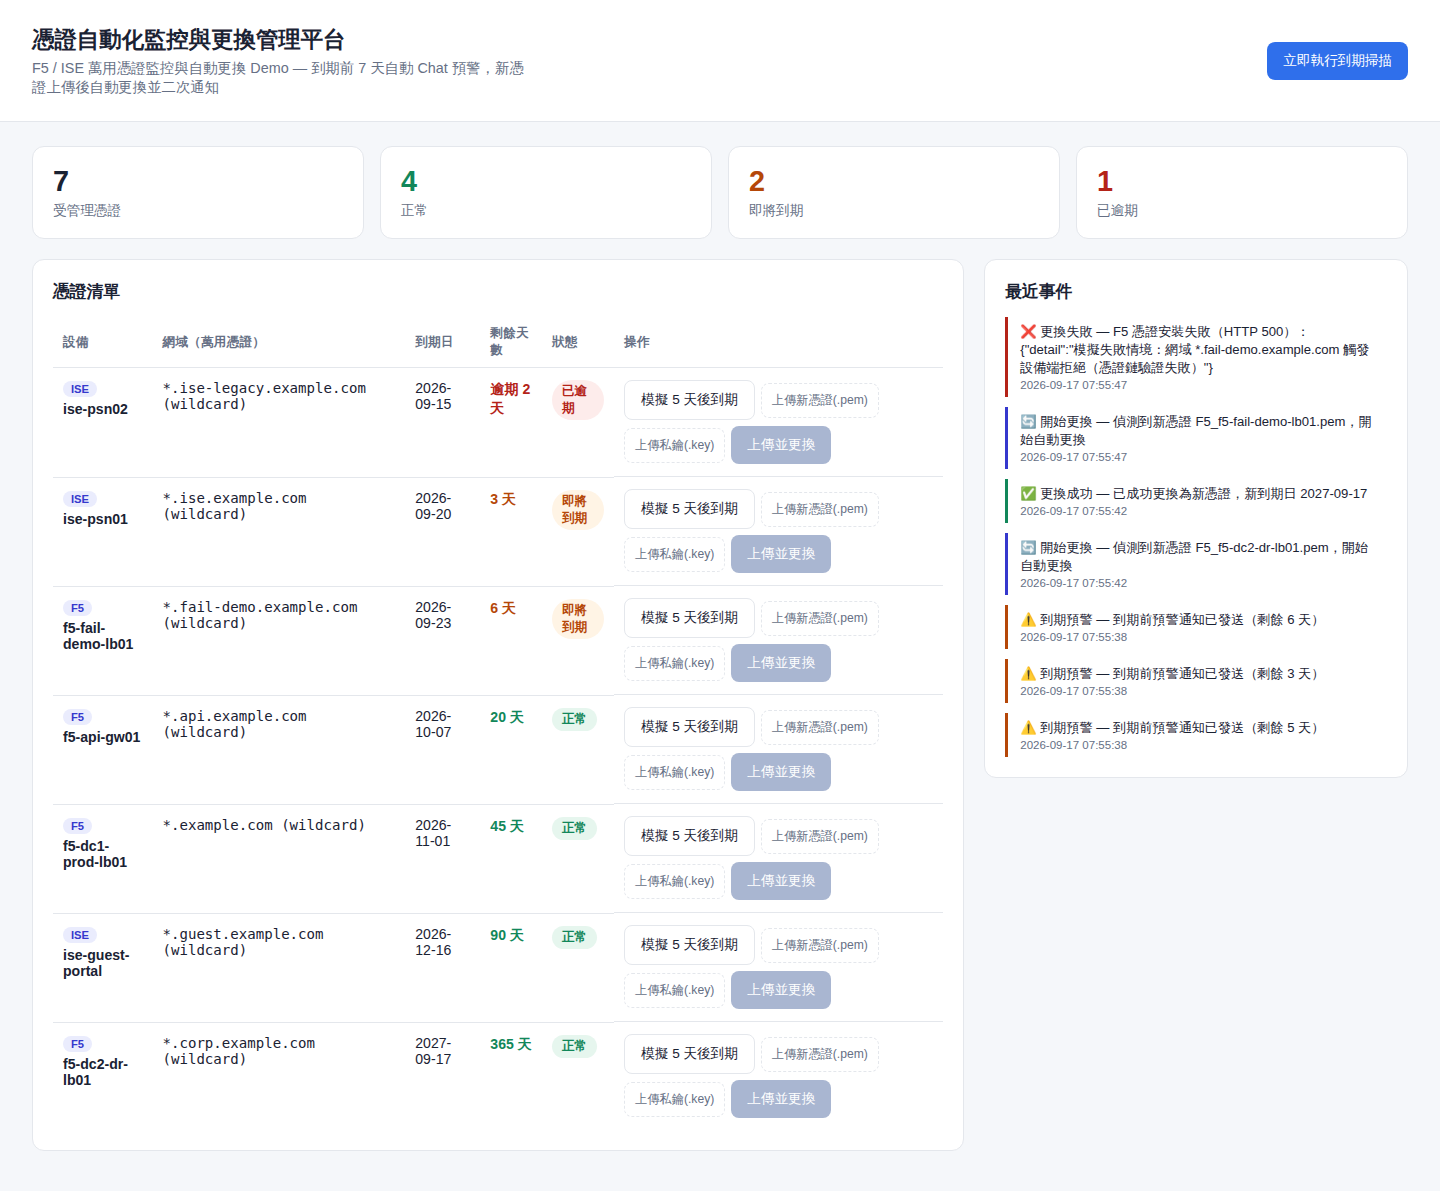
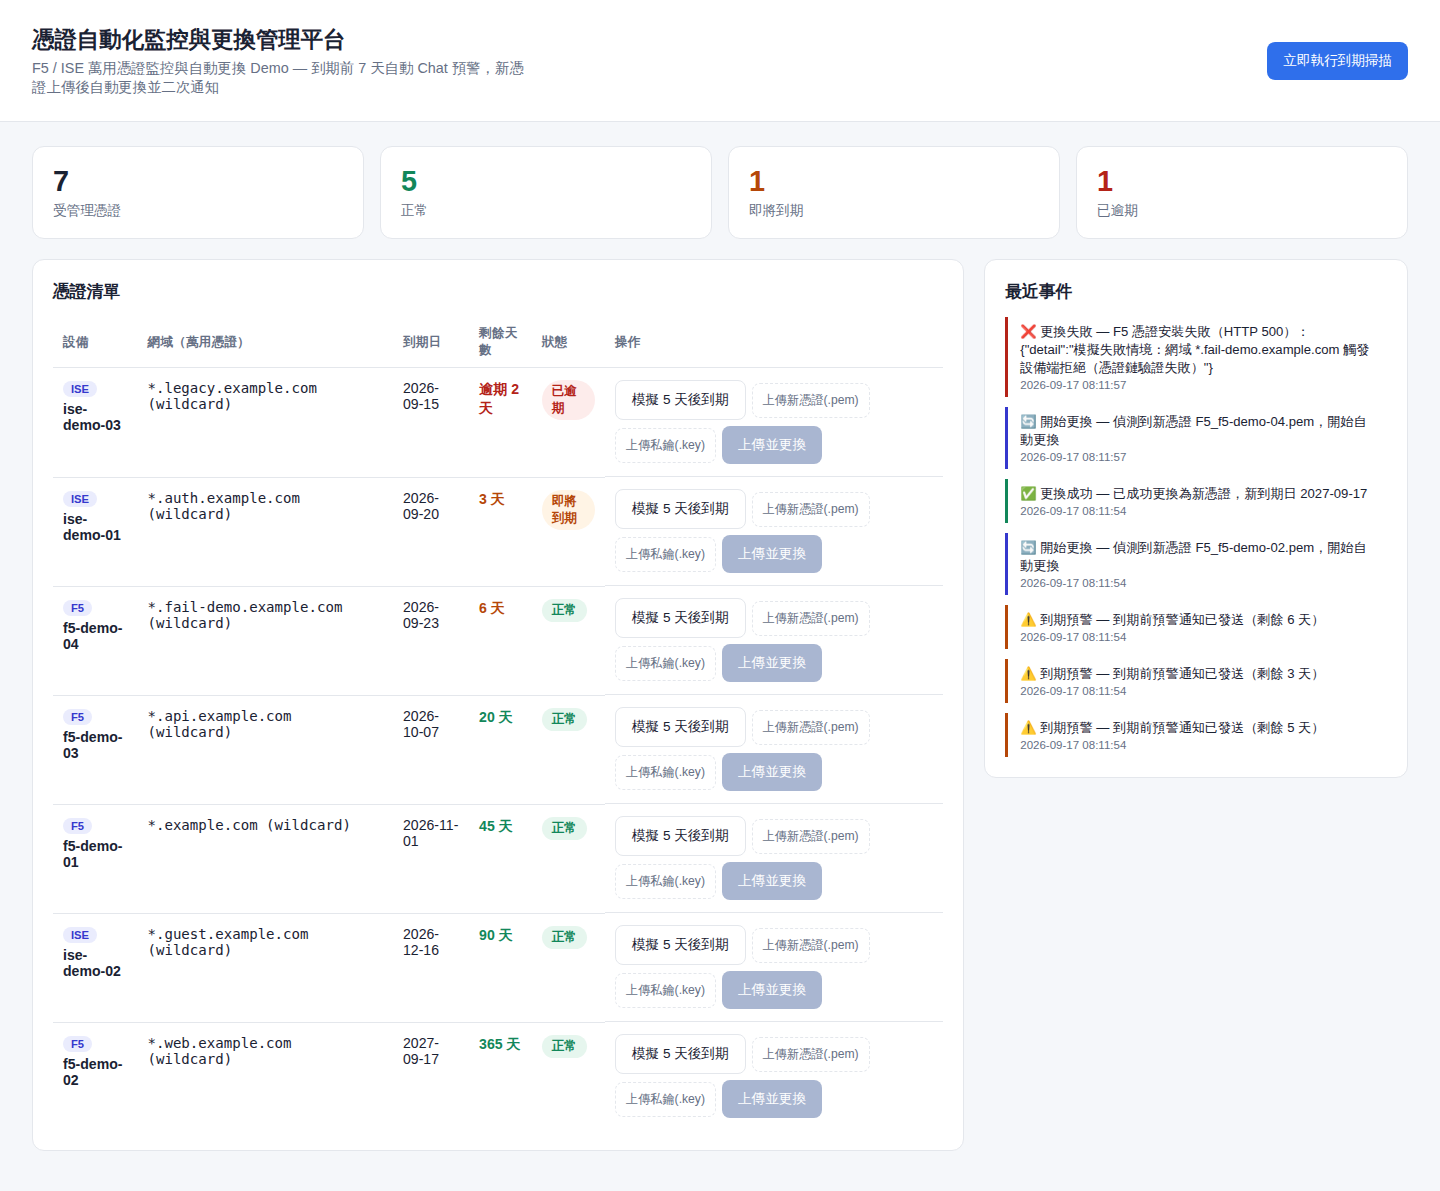
Use neutral demo naming and fill in GitHub username
Renamed demo device/domain examples (f5-dc1-prod-lb01, *.corp.example.com,
etc.) to clearly generic placeholders (f5-demo-01, *.web.example.com) so
nothing in the repo reads like a real environment's naming convention.
Also filled in the GitHub username in README links/badges and refreshed
the dashboard screenshot to match.

Claude-Session: https://claude.ai/code/session_01PJ8L9w5UkjH1amPFNGcDDn

diff --git a/scripts/seed_demo.py b/scripts/seed_demo.py
@@ -20,15 +20,15 @@ from app.models import Certificate  # noqa: E402
 from app.scheduler import scan_for_expiring_certificates  # noqa: E402
 
 DEMO_CERTS = [
-    dict(device_type="F5", device_name="f5-dc1-prod-lb01", domain="*.example.com", days_left=45),
-    dict(device_type="F5", device_name="f5-dc2-dr-lb01", domain="*.corp.example.com", days_left=5),
-    dict(device_type="F5", device_name="f5-api-gw01", domain="*.api.example.com", days_left=20),
-    dict(device_type="ISE", device_name="ise-psn01", domain="*.ise.example.com", days_left=3),
-    dict(device_type="ISE", device_name="ise-guest-portal", domain="*.guest.example.com", days_left=90),
-    dict(device_type="ISE", device_name="ise-psn02", domain="*.ise-legacy.example.com", days_left=-2),
+    dict(device_type="F5", device_name="f5-demo-01", domain="*.example.com", days_left=45),
+    dict(device_type="F5", device_name="f5-demo-02", domain="*.web.example.com", days_left=5),
+    dict(device_type="F5", device_name="f5-demo-03", domain="*.api.example.com", days_left=20),
+    dict(device_type="ISE", device_name="ise-demo-01", domain="*.auth.example.com", days_left=3),
+    dict(device_type="ISE", device_name="ise-demo-02", domain="*.guest.example.com", days_left=90),
+    dict(device_type="ISE", device_name="ise-demo-03", domain="*.legacy.example.com", days_left=-2),
     # domain deliberately contains "fail-demo": mock_devices/common.py rejects any install
     # for such a domain, so this row is handy for demoing the failure / rollback path live.
-    dict(device_type="F5", device_name="f5-fail-demo-lb01", domain="*.fail-demo.example.com", days_left=6),
+    dict(device_type="F5", device_name="f5-demo-04", domain="*.fail-demo.example.com", days_left=6),
 ]
 
 

diff --git a/scripts/generate_sample_cert.py b/scripts/generate_sample_cert.py
@@ -10,11 +10,11 @@ Examples
 --------
 Renew one of the seeded demo certs (see scripts/seed_demo.py for the list):
 
-    python scripts/generate_sample_cert.py --device-type F5 --device-name f5-dc2-dr-lb01 --domain "*.corp.example.com"
+    python scripts/generate_sample_cert.py --device-type F5 --device-name f5-demo-02 --domain "*.web.example.com"
 
 Demonstrate the failure path (mock device always rejects "fail-demo" domains):
 
-    python scripts/generate_sample_cert.py --device-type F5 --device-name f5-fail-demo-lb01 --domain "*.fail-demo.example.com"
+    python scripts/generate_sample_cert.py --device-type F5 --device-name f5-demo-04 --domain "*.fail-demo.example.com"
 """
 import argparse
 import sys
@@ -29,7 +29,7 @@ from app.config import settings  # noqa: E402
 def main():
     parser = argparse.ArgumentParser(description=__doc__, formatter_class=argparse.RawDescriptionHelpFormatter)
     parser.add_argument("--device-type", required=True, choices=["F5", "ISE"])
-    parser.add_argument("--device-name", required=True, help="e.g. f5-dc1-prod-lb01")
+    parser.add_argument("--device-name", required=True, help="e.g. f5-demo-01")
     parser.add_argument("--domain", required=True, help='e.g. "*.example.com" (must match an existing record)')
     parser.add_argument("--valid-days", type=int, default=365)
     args = parser.parse_args()

diff --git a/app/models.py b/app/models.py
@@ -13,7 +13,7 @@ class Certificate(Base):
 
     id = Column(Integer, primary_key=True, index=True)
     device_type = Column(String, nullable=False)       # "F5" | "ISE"
-    device_name = Column(String, nullable=False)        # e.g. "f5-dc1-prod-lb01"
+    device_name = Column(String, nullable=False)        # e.g. "f5-demo-01"
     domain = Column(String, nullable=False)              # e.g. "*.example.com"
     cert_type = Column(String, default="wildcard")
     serial_number = Column(String, default="")

diff --git a/app/watcher.py b/app/watcher.py
@@ -5,8 +5,8 @@ Naming convention for a dropped-in certificate (kept deliberately simple for
 the demo): `<DeviceType>_<DeviceName>.pem` with a matching `.key` file of the
 same stem, e.g.
 
-    F5_f5-dc1-prod-lb01.pem
-    F5_f5-dc1-prod-lb01.key
+    F5_f5-demo-01.pem
+    F5_f5-demo-01.key
 
 process_certificate_file() is the single entry point used both by the
 filesystem watcher (watchdog, for the "drop a file with scp/sftp" workflow)

diff --git a/app/cert_utils.py b/app/cert_utils.py
@@ -32,7 +32,7 @@ def generate_self_signed_wildcard(domain: str, valid_days: int = 365) -> tuple[b
 
     subject = issuer = x509.Name([
         x509.NameAttribute(NameOID.COUNTRY_NAME, "TW"),
-        x509.NameAttribute(NameOID.ORGANIZATION_NAME, "Demo Corp"),
+        x509.NameAttribute(NameOID.ORGANIZATION_NAME, "Demo Org"),
         x509.NameAttribute(NameOID.COMMON_NAME, domain),
     ])
 

diff --git a/tests/test_notifier.py b/tests/test_notifier.py
@@ -7,7 +7,7 @@ from app import notifier
 def _fake_cert(**overrides):
     base = dict(
         device_type="F5",
-        device_name="f5-dc1-prod-lb01",
+        device_name="f5-demo-01",
         domain="*.example.com",
         cert_type="wildcard",
         expires_at=dt.datetime.utcnow() + dt.timedelta(days=5),

diff --git a/README.md b/README.md
@@ -2,11 +2,9 @@
 
 **Certificate Lifecycle Automation for F5 / Cisco ISE Wildcard Certificates** — a self-contained demo (mock device APIs included) of an end-to-end pipeline: expiry monitoring → D-7 chat alert → admin drops in the renewed cert → API auto-install → completion alert.
 
-![CI](https://github.com/<your-github-username>/cert-lifecycle-manager/actions/workflows/ci.yml/badge.svg)
+![CI](https://github.com/s9828027-hue/cert-lifecycle-manager/actions/workflows/ci.yml/badge.svg)
 ![Python](https://img.shields.io/badge/python-3.12-blue)
 ![FastAPI](https://img.shields.io/badge/FastAPI-0.141-009688)
-
-> 把 README 頂端的 `<your-github-username>` 換成你的 GitHub 帳號，CI 徽章才會正確連結。
 
 ---
 
@@ -77,7 +75,7 @@ flowchart LR
 
 ![Dashboard](docs/screenshots/dashboard.png)
 
-儀表板同時展示了：4 種狀態的憑證、一次成功更換（`f5-dc2-dr-lb01`）與一次刻意觸發的失敗案例（`f5-fail-demo-lb01`，用來示範失敗告警與稽核紀錄）。
+儀表板同時展示了：4 種狀態的憑證、一次成功更換（`f5-demo-02`）與一次刻意觸發的失敗案例（`f5-demo-04`，用來示範失敗告警與稽核紀錄）。
 
 ---
 
@@ -102,7 +100,7 @@ flowchart LR
 ### 方法一：Docker Compose（推薦）
 
 ```bash
-git clone https://github.com/<your-github-username>/cert-lifecycle-manager.git
+git clone https://github.com/s9828027-hue/cert-lifecycle-manager.git
 cd cert-lifecycle-manager
 cp .env.example .env        # 預設 CHAT_PROVIDER=console，不需 webhook 也能跑
 docker compose up --build
@@ -157,13 +155,13 @@ Slack / Discord 都可以免費申請一組 Incoming Webhook URL 做測試。
 2. 點任一筆憑證的「立即執行到期掃描」或等排程自動跑，觀察右側事件流出現「⚠ 到期預警」，並在服務 log（或 Slack/Discord）看到通知內容
 3. 模擬管理者拿到新憑證並更換：
    ```bash
-   python scripts/generate_sample_cert.py --device-type F5 --device-name f5-dc2-dr-lb01 --domain "*.corp.example.com"
+   python scripts/generate_sample_cert.py --device-type F5 --device-name f5-demo-02 --domain "*.web.example.com"
    ```
    幾秒內儀表板該列狀態會變成「正常」、到期日更新、事件流出現「✅ 更換成功」
 4. 或直接在儀表板該列用「上傳新憑證(.pem)」「上傳私鑰(.key)」+「上傳並更換」按鈕，效果相同（不用碰終端機）
 5. 示範失敗與風控機制：
    ```bash
-   python scripts/generate_sample_cert.py --device-type F5 --device-name f5-fail-demo-lb01 --domain "*.fail-demo.example.com"
+   python scripts/generate_sample_cert.py --device-type F5 --device-name f5-demo-04 --domain "*.fail-demo.example.com"
    ```
    Mock 設備會刻意拒絕這個網域，事件流出現「❌ 更換失敗」且**原憑證到期日不會被覆蓋**——示範「更換失敗不中斷服務」的設計
 
